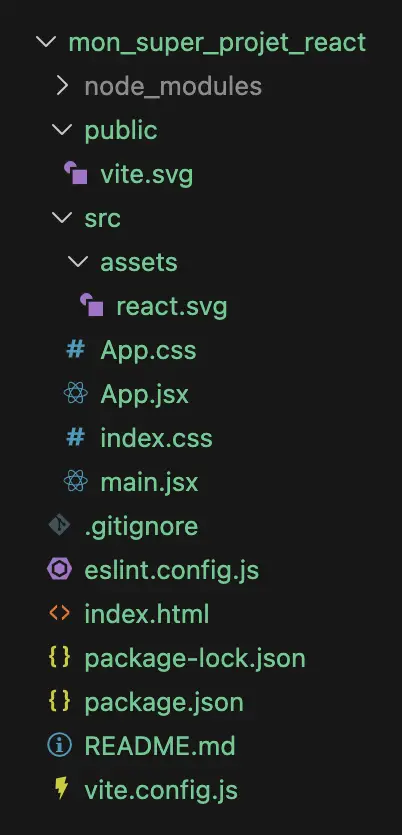
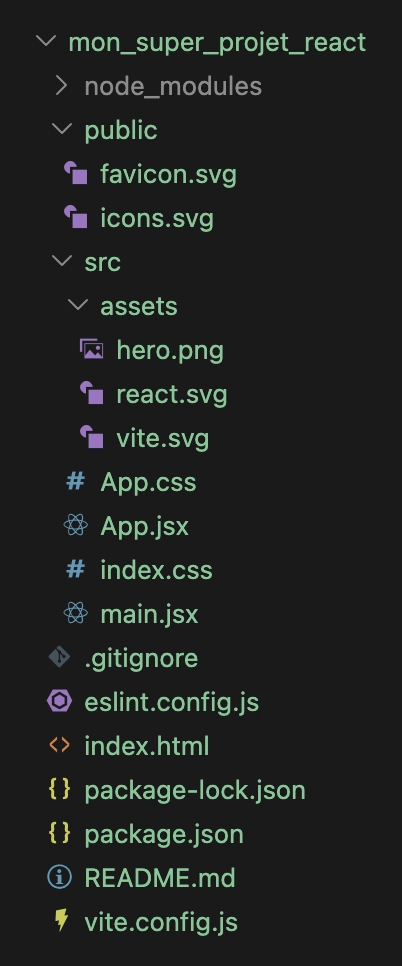
Update React concept.

Changed region(s): [[0.0896, 0.0311, 0.9254, 0.9653]]

diff --git a/react/001-monter_un_projet_react_proprement_et_rapidement.md b/react/001-monter_un_projet_react_proprement_et_rapidement.md
@@ -73,8 +73,6 @@ npm create vite@latest ./
 ![](../assets/images/react/monter_un_projet_react_proprement_et_rapidement-003.webp)
 - Variant : JavaScript
 ![](../assets/images/react/monter_un_projet_react_proprement_et_rapidement-004.webp)
-- Use rolldown-vite : No
-![](../assets/images/react/monter_un_projet_react_proprement_et_rapidement-005.webp)
 - Install with npm and start now? : No
 ![](../assets/images/react/monter_un_projet_react_proprement_et_rapidement-006.webp)
 
@@ -95,14 +93,27 @@ Vous devriez avoir cette arborescence dans votre dossier de travail :
 1. Ajouter dans `eslint.config.js` :
 
 ```
-"quotes": ["error", "double"],
-"semi": ["error", "always"],
+rules: {
+  quotes: ["error", "double"],
+  semi: ["error", "always"],
+  "no-unused-vars": [
+    "error",
+    {
+      varsIgnorePattern: "^[A-Z_]",
+    },
+  ],
+},
 ```
 
-> À ajouter juste après : `"no-unused-vars": ["error", { varsIgnorePattern: "^[A-Z_]" }],`
+> À ajouter juste après le `},` du bloc `languageOptions`.
 
-- La première règle force l’usage des guillemets doubles (`"`) (je suis un bon français 😂) !
-- La seconde impose les points-virgules (`;`) en fin de ligne.
+- `quotes` force l'utilisation des guillemets doubles (").
+- `semi` impose les points-virgules (;) en fin d'instruction.
+- `no-unused-vars` signale les variables inutilisées.
+
+Cette configuration constitue une base simple pour démarrer un projet React. Vous êtes libres d'ajouter d'autres règles selon vos préférences ou les besoins de votre équipe.
+
+La liste complète des règles disponibles est consultable dans la [documentation officielle](https://eslint.org/docs/latest/rules/) d'ESLint.
 
 2. Modifier la section `"scripts"` du fichier `package.json` :
 
@@ -186,9 +197,12 @@ Vous pouvez clôturer votre serveur en appuyant sur `Ctrl` + `q` depuis le Termi
 ## Nettoyer le projet
 
 - Supprimer les fichiers :
-  - `public/vite.svg`
-  - `src/assets/react.svg`
-  - `src/app.css`
+  - `public/favicon.svg`.
+  - `public/icons.svg`.
+  - `src/assets/hero.png`.
+  - `src/assets/react.svg`.
+  - `src/assets/vite.svg`.
+  - `src/app.css`.
 - Renommer le fichier `index.css` en `global.css`.
 - Remplacer le contenu du fichier `main.jsx` par cette base de code :
 
@@ -229,7 +243,9 @@ Si vous n'avez pas coupé votre serveur, vous devriez avoir une page qui ressemb
 
 Votre projet est maintenant minimaliste, propre et parfaitement fonctionnel.
 
-Je suis bien conscient que d'autres réglages peuvent être ajoutés (notamment pour ESLint) mais l'idée ici est d'avoir un projet de base sans trop de complexité.
+Cette configuration constitue une base saine pour démarrer un projet React sans ajouter de complexité inutile.
+
+De nombreux outils et bonnes pratiques pourront seront nécessaires par la suite, comme les tests automatisés, Prettier, TypeScript ou des règles ESLint plus avancées...
 
 ## Installer Lucide React
 
